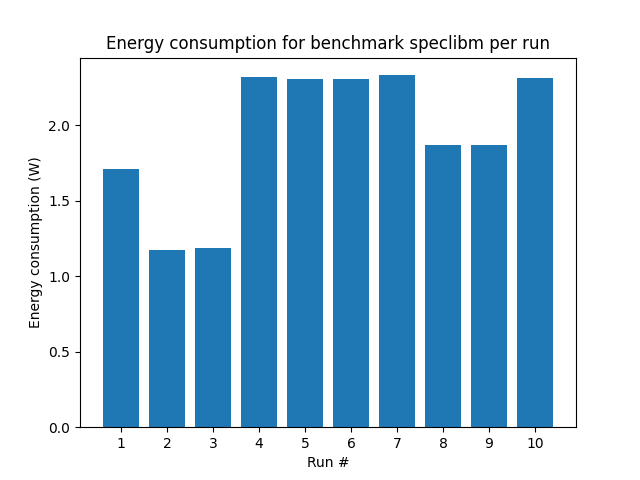
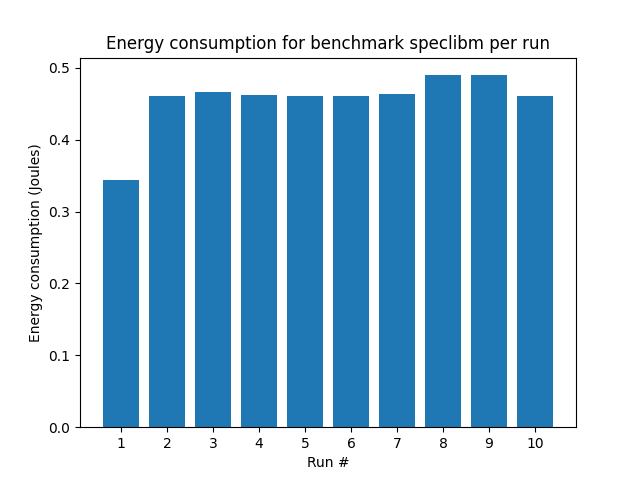
corrected energy graphs

diff --git a/question2/aggregate_results.py b/question2/aggregate_results.py
@@ -101,8 +101,8 @@ for b in benchmarks:
     analyzed_results["peak_power"][b] = []
     analyzed_results["edap"][b] = []
     for run in runs:
-        energy = final_results[b][f"run{run}"]["cpu"]["subthreshold"] + final_results[b][f"run{run}"]["cpu"]["gate"] + final_results[b][f"run{run}"]["cpu"]["runtime"] + \
-            final_results[b][f"run{run}"]["l2"]["subthreshold"] + final_results[b][f"run{run}"]["l2"]["gate"] + final_results[b][f"run{run}"]["l2"]["runtime"]
+        energy = (final_results[b][f"run{run}"]["cpu"]["subthreshold"] + final_results[b][f"run{run}"]["cpu"]["gate"] + final_results[b][f"run{run}"]["cpu"]["runtime"] + \
+            final_results[b][f"run{run}"]["l2"]["subthreshold"] + final_results[b][f"run{run}"]["l2"]["gate"] + final_results[b][f"run{run}"]["l2"]["runtime"]) * final_results[b][f"run{run}"]["seconds"]["seconds"]
         peak_power = final_results[b][f"run{run}"]["total"]["peak_power"]
         product = energy * final_results[b][f"run{run}"]["seconds"]["seconds"] * (final_results[b][f"run{run}"]["cpu"]["area"] + final_results[b][f"run{run}"]["l2"]["area"])
 
@@ -117,7 +117,7 @@ for b in benchmarks:
     plt.bar(range(1, 11), analyzed_results["energy"][b])
     plt.xticks(range(1, 11))
     plt.xlabel("Run #")
-    plt.ylabel("Energy consumption (W)")
+    plt.ylabel("Energy consumption (Joules)")
     plt.title(f"Energy consumption for benchmark {b} per run")
     plt.savefig(f"figs/energy_{b}.png")
 
